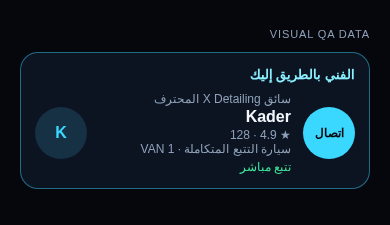
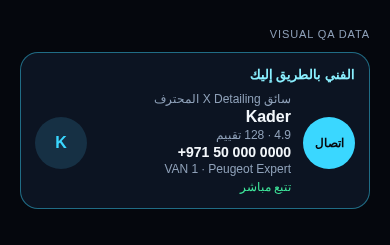
Use approved assets in the presentation components

diff --git a/TrackingMapVisual.tsx b/TrackingMapVisual.tsx
@@ -1,5 +1,12 @@
-import { Image, Pressable, StyleSheet, Text, View } from "react-native";
+import { useEffect, useRef } from "react";
+import { Animated, Easing, Image, Pressable, StyleSheet, Text, View } from "react-native";
 import MapView, { Marker, Polyline, UrlTile, type Region } from "react-native-maps";
+import CustomerPin from "./assets/tracking-customer-pin.svg";
+import DestinationPin from "./assets/tracking-destination-pin.svg";
+import RecenterIcon from "./assets/tracking-recenter.svg";
+import LiveIndicator from "./assets/tracking-live-indicator.svg";
+import DelayedIndicator from "./assets/tracking-location-delayed.svg";
+import LivePulse from "./assets/tracking-live-pulse.svg";
 
 export type LatLng = { latitude: number; longitude: number };
 
@@ -14,6 +21,8 @@ export type TrackingMapVisualProps = {
   destination?: LatLng | null;
   /** Real route only. Omit when no routing provider has returned a path. */
   route?: LatLng[] | null;
+  /** Pulse and the live mark run only while this is true. */
+  live?: boolean;
   stale?: boolean;
   following?: boolean;
   onFollowChange?: (following: boolean) => void;
@@ -42,6 +51,7 @@ export function TrackingMapVisual({
   customer,
   destination,
   route,
+  live = true,
   stale = false,
   following = true,
   onFollowChange,
@@ -58,6 +68,41 @@ export function TrackingMapVisual({
     ? `https://a.basemaps.cartocdn.com/rastertiles/dark_all/{z}/{x}/{y}@2x.png?key=${encodeURIComponent(cartoApiKey)}`
     : null;
   const line = stale ? "#F0A43A" : "#3AD7FF";
+  const pulseOn = Boolean(van) && live && !stale && !reduceMotion;
+  const scale = useRef(new Animated.Value(0.65)).current;
+  const opacity = useRef(new Animated.Value(0.75)).current;
+
+  useEffect(() => {
+    if (!pulseOn) {
+      scale.setValue(0.65);
+      opacity.setValue(0);
+      return;
+    }
+    const loop = Animated.loop(
+      Animated.sequence([
+        Animated.parallel([
+          Animated.timing(scale, {
+            toValue: 1.7,
+            duration: 1800,
+            easing: Easing.out(Easing.quad),
+            useNativeDriver: false,
+          }),
+          Animated.timing(opacity, {
+            toValue: 0,
+            duration: 1800,
+            easing: Easing.out(Easing.quad),
+            useNativeDriver: false,
+          }),
+        ]),
+        Animated.parallel([
+          Animated.timing(scale, { toValue: 0.65, duration: 0, useNativeDriver: false }),
+          Animated.timing(opacity, { toValue: 0.75, duration: 0, useNativeDriver: false }),
+        ]),
+      ]),
+    );
+    loop.start();
+    return () => loop.stop();
+  }, [opacity, pulseOn, scale]);
 
   return (
     <View style={styles.fill}>
@@ -75,17 +120,21 @@ export function TrackingMapVisual({
         {route && route.length > 1 ? <Polyline coordinates={route} strokeColor={line} strokeWidth={4} /> : null}
         {customer ? (
           <Marker coordinate={customer} anchor={{ x: 0.5, y: 0.5 }} tracksViewChanges={false}>
-            <View style={styles.customer} />
+            <CustomerPin width={32} height={32} />
           </Marker>
         ) : null}
         {separateDestination && destination ? (
           <Marker coordinate={destination} anchor={{ x: 0.5, y: 0.5 }} tracksViewChanges={false}>
-            <View style={styles.destination} />
+            <DestinationPin width={28} height={28} />
           </Marker>
         ) : null}
-        {van && !reduceMotion && !stale ? (
-          <Marker coordinate={van} anchor={{ x: 0.5, y: 0.5 }} tracksViewChanges={false}>
-            <View style={styles.pulse} />
+        {van && pulseOn ? (
+          <Marker coordinate={van} anchor={{ x: 0.5, y: 0.5 }} tracksViewChanges>
+            <View style={styles.pulseSlot}>
+              <Animated.View style={[styles.pulse, { opacity, transform: [{ scale }] }]}>
+                <LivePulse width={72} height={72} />
+              </Animated.View>
+            </View>
           </Marker>
         ) : null}
         {van ? (
@@ -94,7 +143,23 @@ export function TrackingMapVisual({
           </Marker>
         ) : null}
       </MapView>
-      <Pressable style={styles.recenter} onPress={onRecenter} accessibilityLabel="Recenter" />
+      {stale ? (
+        <View style={styles.signal} pointerEvents="none">
+          <DelayedIndicator width={16} height={16} />
+        </View>
+      ) : live && van ? (
+        <View style={styles.signal} pointerEvents="none">
+          <LiveIndicator width={16} height={16} />
+        </View>
+      ) : null}
+      <Pressable
+        style={styles.recenter}
+        onPress={onRecenter}
+        accessibilityRole="button"
+        accessibilityLabel="Recenter"
+      >
+        <RecenterIcon width={24} height={24} />
+      </Pressable>
       <Text style={styles.attribution}>© OpenStreetMap contributors, © CARTO</Text>
     </View>
   );
@@ -103,29 +168,9 @@ export function TrackingMapVisual({
 const styles = StyleSheet.create({
   fill: { flex: 1, backgroundColor: "#070D18" },
   van: { width: 17, height: 36, resizeMode: "contain" },
-  pulse: {
-    width: 36,
-    height: 36,
-    borderRadius: 18,
-    borderWidth: 2,
-    borderColor: "rgba(58,215,255,0.45)",
-  },
-  customer: {
-    width: 22,
-    height: 22,
-    borderRadius: 11,
-    backgroundColor: "#071018",
-    borderWidth: 2,
-    borderColor: "#F3F7FB",
-  },
-  destination: {
-    width: 18,
-    height: 18,
-    borderRadius: 9,
-    backgroundColor: "#3AD7FF",
-    borderWidth: 3,
-    borderColor: "#F3F7FB",
-  },
+  pulseSlot: { width: 124, height: 124, alignItems: "center", justifyContent: "center" },
+  pulse: { width: 72, height: 72 },
+  signal: { position: "absolute", top: 12, end: 12 },
   recenter: {
     position: "absolute",
     end: 12,
@@ -136,6 +181,8 @@ const styles = StyleSheet.create({
     backgroundColor: "rgba(12,20,34,0.9)",
     borderWidth: 1,
     borderColor: "#1C2D48",
+    alignItems: "center",
+    justifyContent: "center",
   },
   attribution: { position: "absolute", start: 8, bottom: 4, color: "#8EA0B8", fontSize: 9 },
 });

diff --git a/AssignedTechnicianCard.tsx b/AssignedTechnicianCard.tsx
@@ -1,4 +1,5 @@
 import { Image, Pressable, StyleSheet, Text, View } from "react-native";
+import CallIcon from "./assets/technician-call.svg";
 
 export type TrackingCardStatus = "assigned" | "on_the_way" | "arrived" | "in_progress";
 
@@ -28,11 +29,23 @@ const COPY = {
   in_progress: { ar: "جاري تنفيذ الخدمة", en: "Service in progress" },
   call: { ar: "اتصال", en: "Call" },
   live: { ar: "تتبع مباشر", en: "Live tracking" },
+  reviews: { ar: "تقييم", en: "reviews" },
 } as const;
 
 function initials(name: string) {
   const part = name.trim().split(/\s+/)[0] ?? "";
   return part.slice(0, 1);
+}
+
+/** Groups a UAE mobile number. Any other value is shown exactly as passed in. */
+export function formatTechnicianPhone(phone: string) {
+  const trimmed = phone.trim();
+  const digits = trimmed.replace(/\D/g, "");
+  if (digits.startsWith("971") && digits.length === 12) {
+    const local = digits.slice(3);
+    return `+971 ${local.slice(0, 2)} ${local.slice(2, 5)} ${local.slice(5)}`;
+  }
+  return trimmed;
 }
 
 function Avatar({ person, size }: { person: StaffProfile; size: number }) {
@@ -56,6 +69,8 @@ export function AssignedTechnicianCard({
 }: AssignedTechnicianCardProps) {
   const ar = language === "ar";
   const live = status === "on_the_way";
+  const callLabel = ar ? COPY.call.ar : COPY.call.en;
+  const reviewLabel = ar ? COPY.reviews.ar : COPY.reviews.en;
 
   return (
     <View style={[styles.card, { direction: ar ? "rtl" : "ltr" }]}>
@@ -63,20 +78,22 @@ export function AssignedTechnicianCard({
       <View style={styles.row}>
         <Pressable
           accessibilityRole="button"
-          accessibilityLabel={ar ? COPY.call.ar : COPY.call.en}
+          accessibilityLabel={callLabel}
           onPress={() => onCall(technician.phone)}
           style={styles.call}
         >
-          <Text style={styles.callText}>{ar ? COPY.call.ar : COPY.call.en}</Text>
+          <CallIcon width={48} height={48} />
+          <Text style={styles.callText}>{callLabel}</Text>
         </Pressable>
         <View style={styles.copy}>
           <Text style={styles.role}>{technician.role}</Text>
           <Text style={styles.name}>{technician.name}</Text>
           <Text style={styles.meta}>
-            ★ {technician.averageRating.toFixed(1)} · {technician.ratingCount}
+            {technician.averageRating.toFixed(1)} · {technician.ratingCount} {reviewLabel}
           </Text>
+          <Text style={styles.phone}>{formatTechnicianPhone(technician.phone)}</Text>
           <Text style={styles.meta}>
-            {van.model} · {van.number}
+            {van.number} · {van.model}
           </Text>
           {live ? <Text style={styles.live}>{ar ? COPY.live.ar : COPY.live.en}</Text> : null}
         </View>
@@ -110,16 +127,10 @@ const styles = StyleSheet.create({
   role: { color: "#8EA0B8", fontSize: 12 },
   name: { color: "#F3F7FB", fontSize: 16, fontWeight: "700" },
   meta: { color: "#8EA0B8", fontSize: 12, marginTop: 2 },
+  phone: { color: "#F3F7FB", fontSize: 14, fontWeight: "600", marginTop: 2, writingDirection: "ltr" },
   live: { color: "#3EE59A", fontSize: 12, marginTop: 4 },
-  call: {
-    width: 52,
-    height: 52,
-    borderRadius: 26,
-    backgroundColor: "#3AD7FF",
-    alignItems: "center",
-    justifyContent: "center",
-  },
-  callText: { color: "#07090E", fontSize: 11, fontWeight: "700" },
+  call: { alignItems: "center", gap: 2 },
+  callText: { color: "#8AF0FF", fontSize: 11, fontWeight: "700" },
   fallback: { backgroundColor: "#121C2E", alignItems: "center", justifyContent: "center" },
   fallbackText: { color: "#3AD7FF", fontWeight: "700" },
   assistant: {

diff --git a/PostServiceExperience.tsx b/PostServiceExperience.tsx
@@ -1,4 +1,6 @@
 import { Pressable, StyleSheet, Text, TextInput, View } from "react-native";
+import CompleteMark from "./assets/service-complete.svg";
+import RatingStar from "./assets/rating-star.svg";
 
 export type PostServiceExperienceProps = {
   language: "ar" | "en";
@@ -28,7 +30,7 @@ function Stars({ value, onChange, label }: { value: number; onChange: (n: number
     <View accessibilityRole="adjustable" accessibilityLabel={label} style={styles.stars}>
       {[1, 2, 3, 4, 5].map((star) => (
         <Pressable key={star} onPress={() => onChange(star)} hitSlop={6}>
-          <Text style={[styles.star, star <= value ? styles.starOn : styles.starOff]}>★</Text>
+          <RatingStar width={32} height={32} opacity={star <= value ? 1 : 0.28} />
         </Pressable>
       ))}
     </View>
@@ -53,6 +55,9 @@ export function PostServiceExperience({
 
   return (
     <View style={[styles.wrap, { direction: ar ? "rtl" : "ltr" }]}>
+      <View style={styles.mark}>
+        <CompleteMark width={72} height={72} />
+      </View>
       <Text style={styles.title}>{t("title")}</Text>
       <Text style={styles.summary}>{bookingSummary}</Text>
       <Text style={styles.meta}>
@@ -79,16 +84,14 @@ export function PostServiceExperience({
 }
 
 const styles = StyleSheet.create({
-  wrap: { backgroundColor: "#070D18", padding: 20, gap: 10 },
+  wrap: { backgroundColor: "#070D18", padding: 20, gap: 10, alignItems: "stretch" },
+  mark: { alignItems: "center" },
   title: { color: "#F3F7FB", fontSize: 24, fontWeight: "700", textAlign: "center" },
   summary: { color: "#F3F7FB", fontSize: 15, textAlign: "center" },
   meta: { color: "#8EA0B8", fontSize: 13, textAlign: "center" },
   ask: { color: "#8AF0FF", fontSize: 14, marginTop: 8 },
   label: { color: "#F3F7FB", fontSize: 15, fontWeight: "600" },
   stars: { flexDirection: "row", gap: 8 },
-  star: { fontSize: 32 },
-  starOn: { color: "#3AD7FF" },
-  starOff: { color: "#1C2D48" },
   input: {
     minHeight: 88,
     borderWidth: 1,

diff --git a/TipSelector.tsx b/TipSelector.tsx
@@ -1,4 +1,5 @@
 import { Pressable, StyleSheet, Text, TextInput, View } from "react-native";
+import TipIcon from "./assets/tip-icon.svg";
 
 export type TipSelection = { kind: "preset"; amount: number } | { kind: "custom"; amount: number } | null;
 
@@ -29,7 +30,10 @@ export function TipSelector({
 
   return (
     <View style={[styles.wrap, { direction: ar ? "rtl" : "ltr" }]}>
-      <Text style={styles.title}>{ar ? "أضف إكرامية للفني" : "Add a tip for the technician"}</Text>
+      <View style={styles.heading}>
+        <TipIcon width={28} height={28} />
+        <Text style={styles.title}>{ar ? "أضف إكرامية للفني" : "Add a tip for the technician"}</Text>
+      </View>
       <Text style={styles.note}>{ar ? "اختيارية. تقدر تتخطاها." : "Optional. You can skip it."}</Text>
       <View style={styles.row}>
         {PRESETS.map((amount) => {
@@ -69,6 +73,7 @@ export function TipSelector({
 
 const styles = StyleSheet.create({
   wrap: { backgroundColor: "#070D18", padding: 20, gap: 12 },
+  heading: { flexDirection: "row", alignItems: "center", gap: 8 },
   title: { color: "#F3F7FB", fontSize: 20, fontWeight: "700" },
   note: { color: "#8EA0B8", fontSize: 13 },
   row: { flexDirection: "row", flexWrap: "wrap", gap: 8 },

diff --git a/svg.d.ts b/svg.d.ts
@@ -1,0 +1,6 @@
+declare module "*.svg" {
+  import type { FC } from "react";
+  import type { SvgProps } from "react-native-svg";
+  const content: FC<SvgProps>;
+  export default content;
+}

diff --git a/README.md b/README.md
@@ -36,9 +36,11 @@ The PNG is transparent and has no pulse baked in.
 
 ## 3. Pulse
 
-Add a second marker at the same coordinate, **without** rotation, using `tracking-live-pulse.svg`. Draw it before the van so it sits underneath.
+Add a second marker at the same coordinate, **without** rotation, using `assets/tracking-live-pulse.svg`. `TrackingMapVisual` scales it from `0.65` to `1.7` and fades opacity from `0.75` to `0` over 1800ms, then repeats, only while `live` is true. It stops when `stale` is true or `reduceMotion` is true.
 
-Animate scale `0.65 → 1.7` and opacity `0.75 → 0` over 1800ms. If Reduce Motion is on, or the fix is stale, do not animate. Hide the ring.
+`assets/tracking-live-indicator.svg` shows while live. `assets/tracking-location-delayed.svg` replaces it when the fix is stale. The recenter control is the 44pt glass button with `assets/tracking-recenter.svg` inside it. Customer and destination markers are `tracking-customer-pin.svg` and `tracking-destination-pin.svg`.
+
+These components import the SVG files as React components (`react-native-svg` plus `react-native-svg-transformer`). Add `svg` to Metro `sourceExts` and remove it from `assetExts`. `svg.d.ts` types that import.
 
 ## 4. CARTO vector (preferred)
 
@@ -88,7 +90,7 @@ Do not invent a route, an ETA, a distance, a progress percent, or van movement i
 
 ## 8. AssignedTechnicianCard
 
-Pass staff on props. `onCall(phone)` is the contact action. The label is **اتصال**. There is no sample employee inside the file.
+Pass staff on props. The card shows `technician.phone` (a UAE number is grouped as `+971 XX XXX XXXX`; anything else is shown as given). The call control is `assets/technician-call.svg` plus the label **اتصال**. `onCall(phone)` is the action. There is no sample employee inside the file.
 
 Status copy:
 
